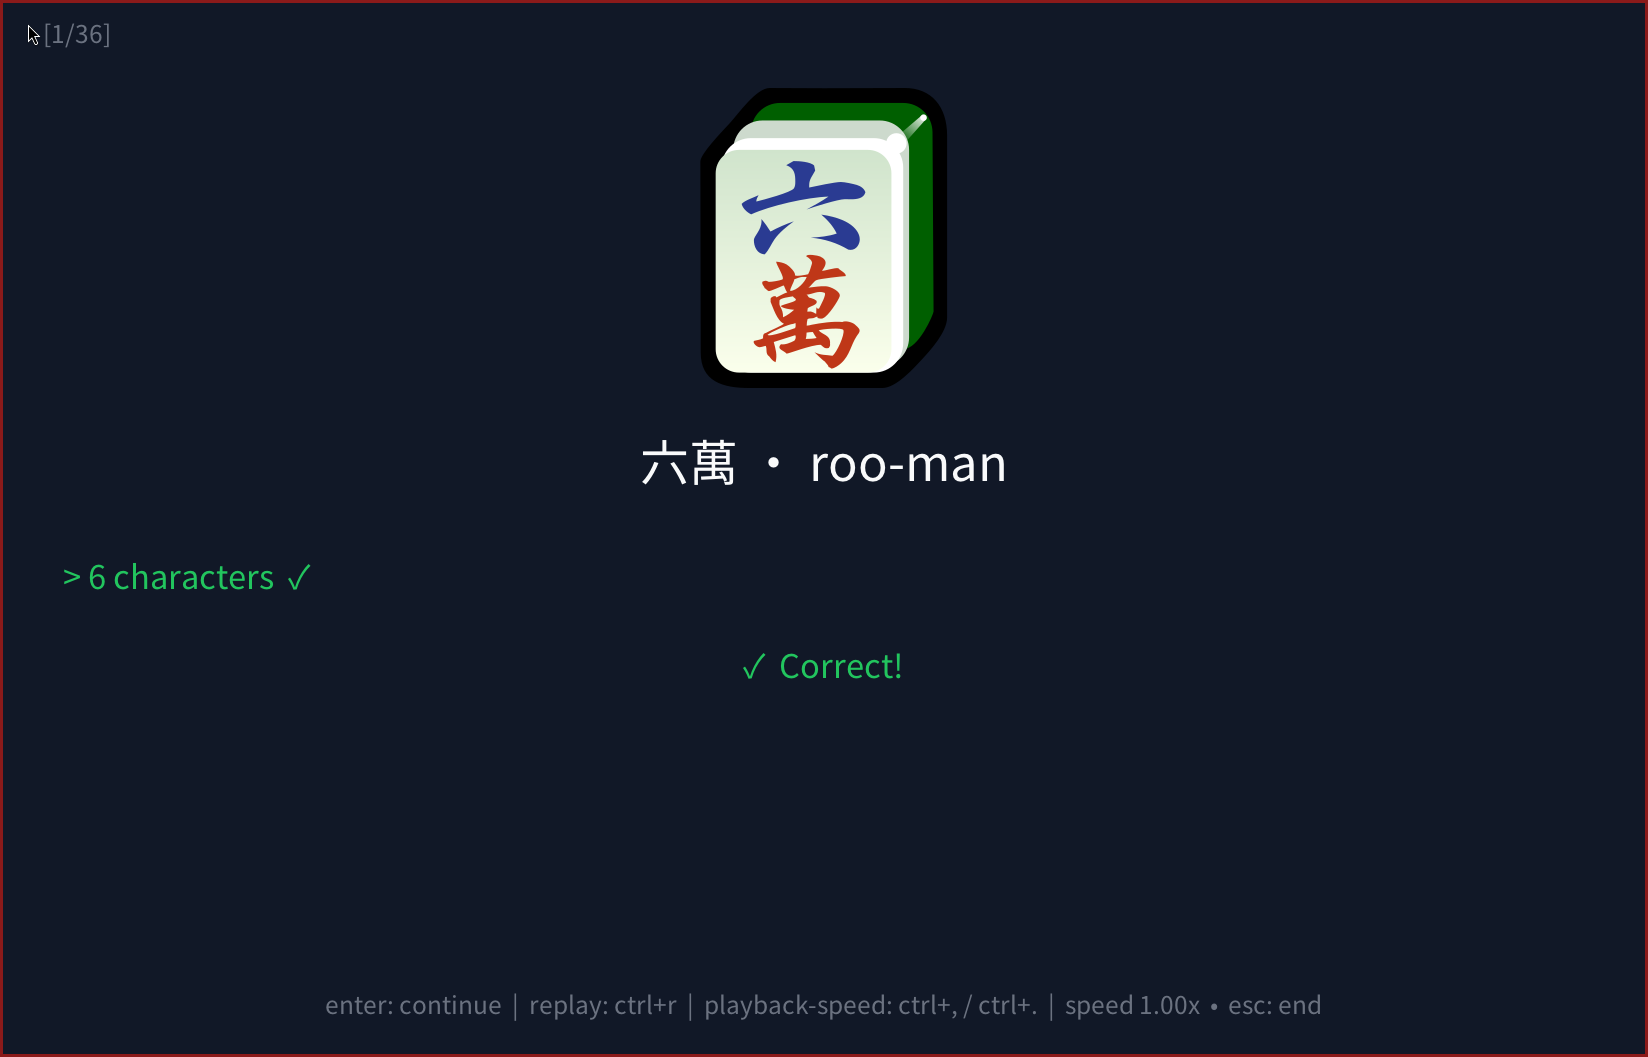
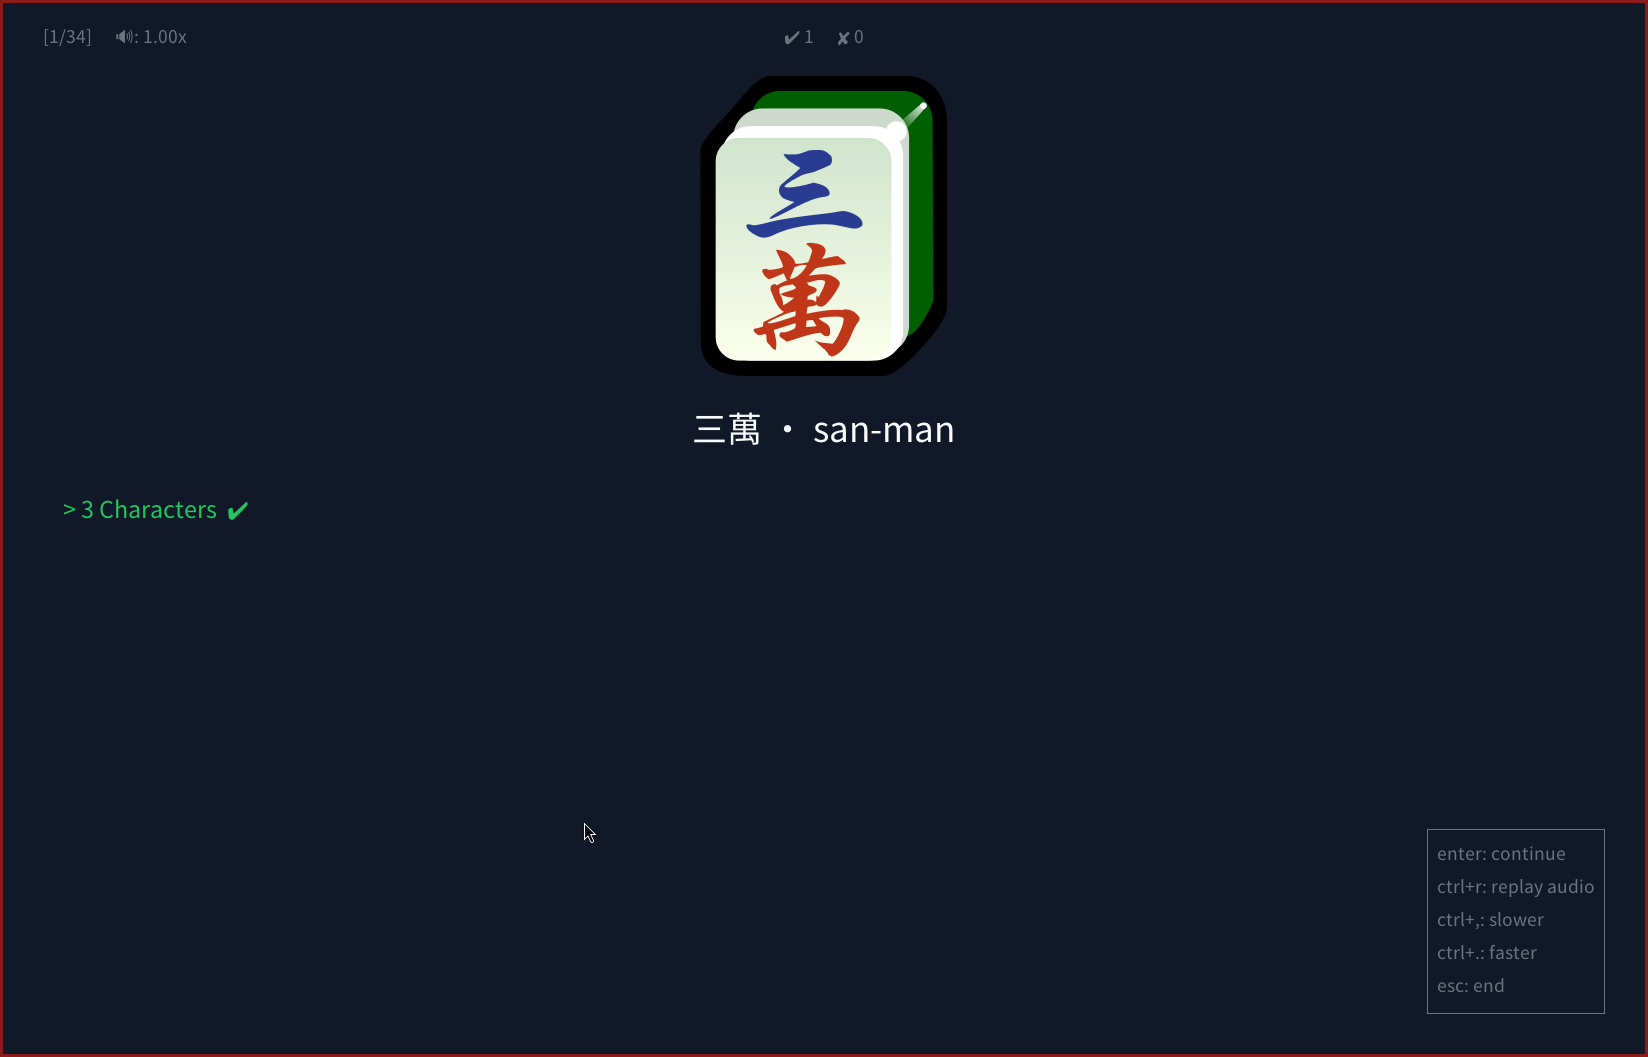
docs: refresh screenshot; add one showing the confusion note
The main screenshot now shows the current UI (status bar with tally
and audio badge, bottom-right controls box, ✔ verdict mark). The new
second screenshot, under the confusion paragraph, shows a wrong answer
that belongs to another card: the miss marked ✘, the right answer
revealed, and the confused-with card reproduced with its answer.

diff --git a/README.md b/README.md
@@ -79,10 +79,12 @@ Set with the `--order` flag or the `# order:` deck header:
 
 A wrong answer that is itself another card's answer — typing ۶ where the card
 wanted ۵ — is a mix-up between two cards, not ordinary forgetting. The result
-screen names the card the answer belongs to, and if that card is still in the
+screen shows the card the answer belongs to, and if that card is still in the
 session it is pulled in nearby, so the confusable pair gets practiced side by
 side. Its review schedule is untouched — the miss counts only against the card
 that was asked.
+
+![answering "8 Characters" to the four-of-characters tile: the wrong answer is marked, the right answer revealed, and the eight-of-characters card the answer belongs to is shown below](screenshot-confusion.png)
 
 When nothing is due, `--ahead <N|all>` keeps an adaptive session going with
 reviews scheduled up to N days out (or all of them), soonest first. Studying